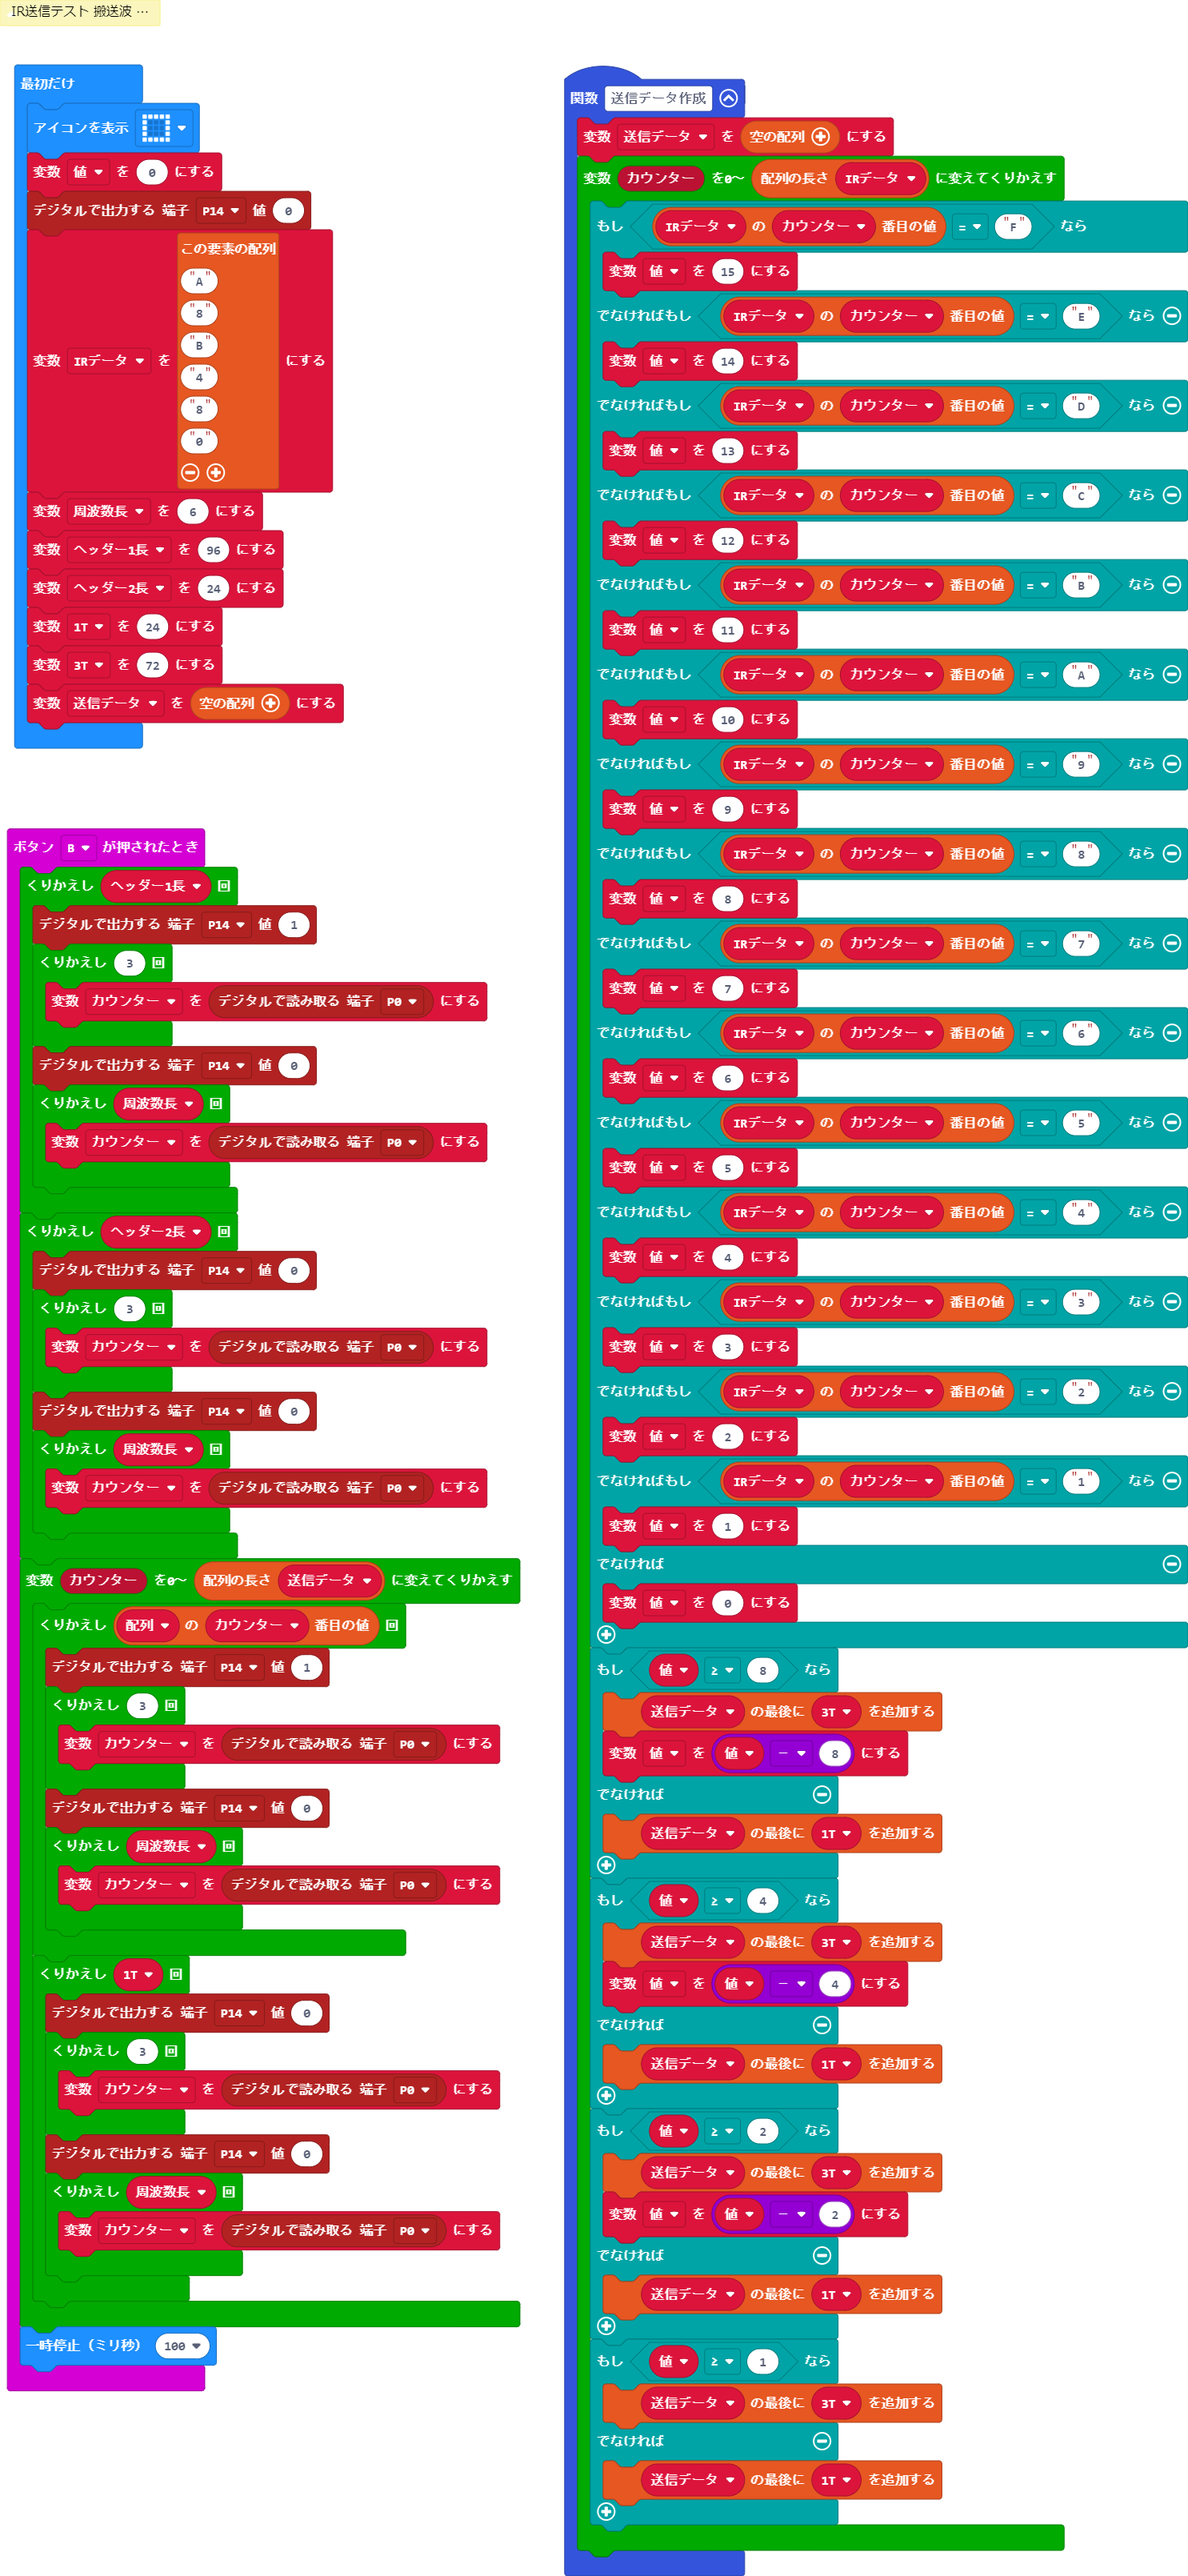
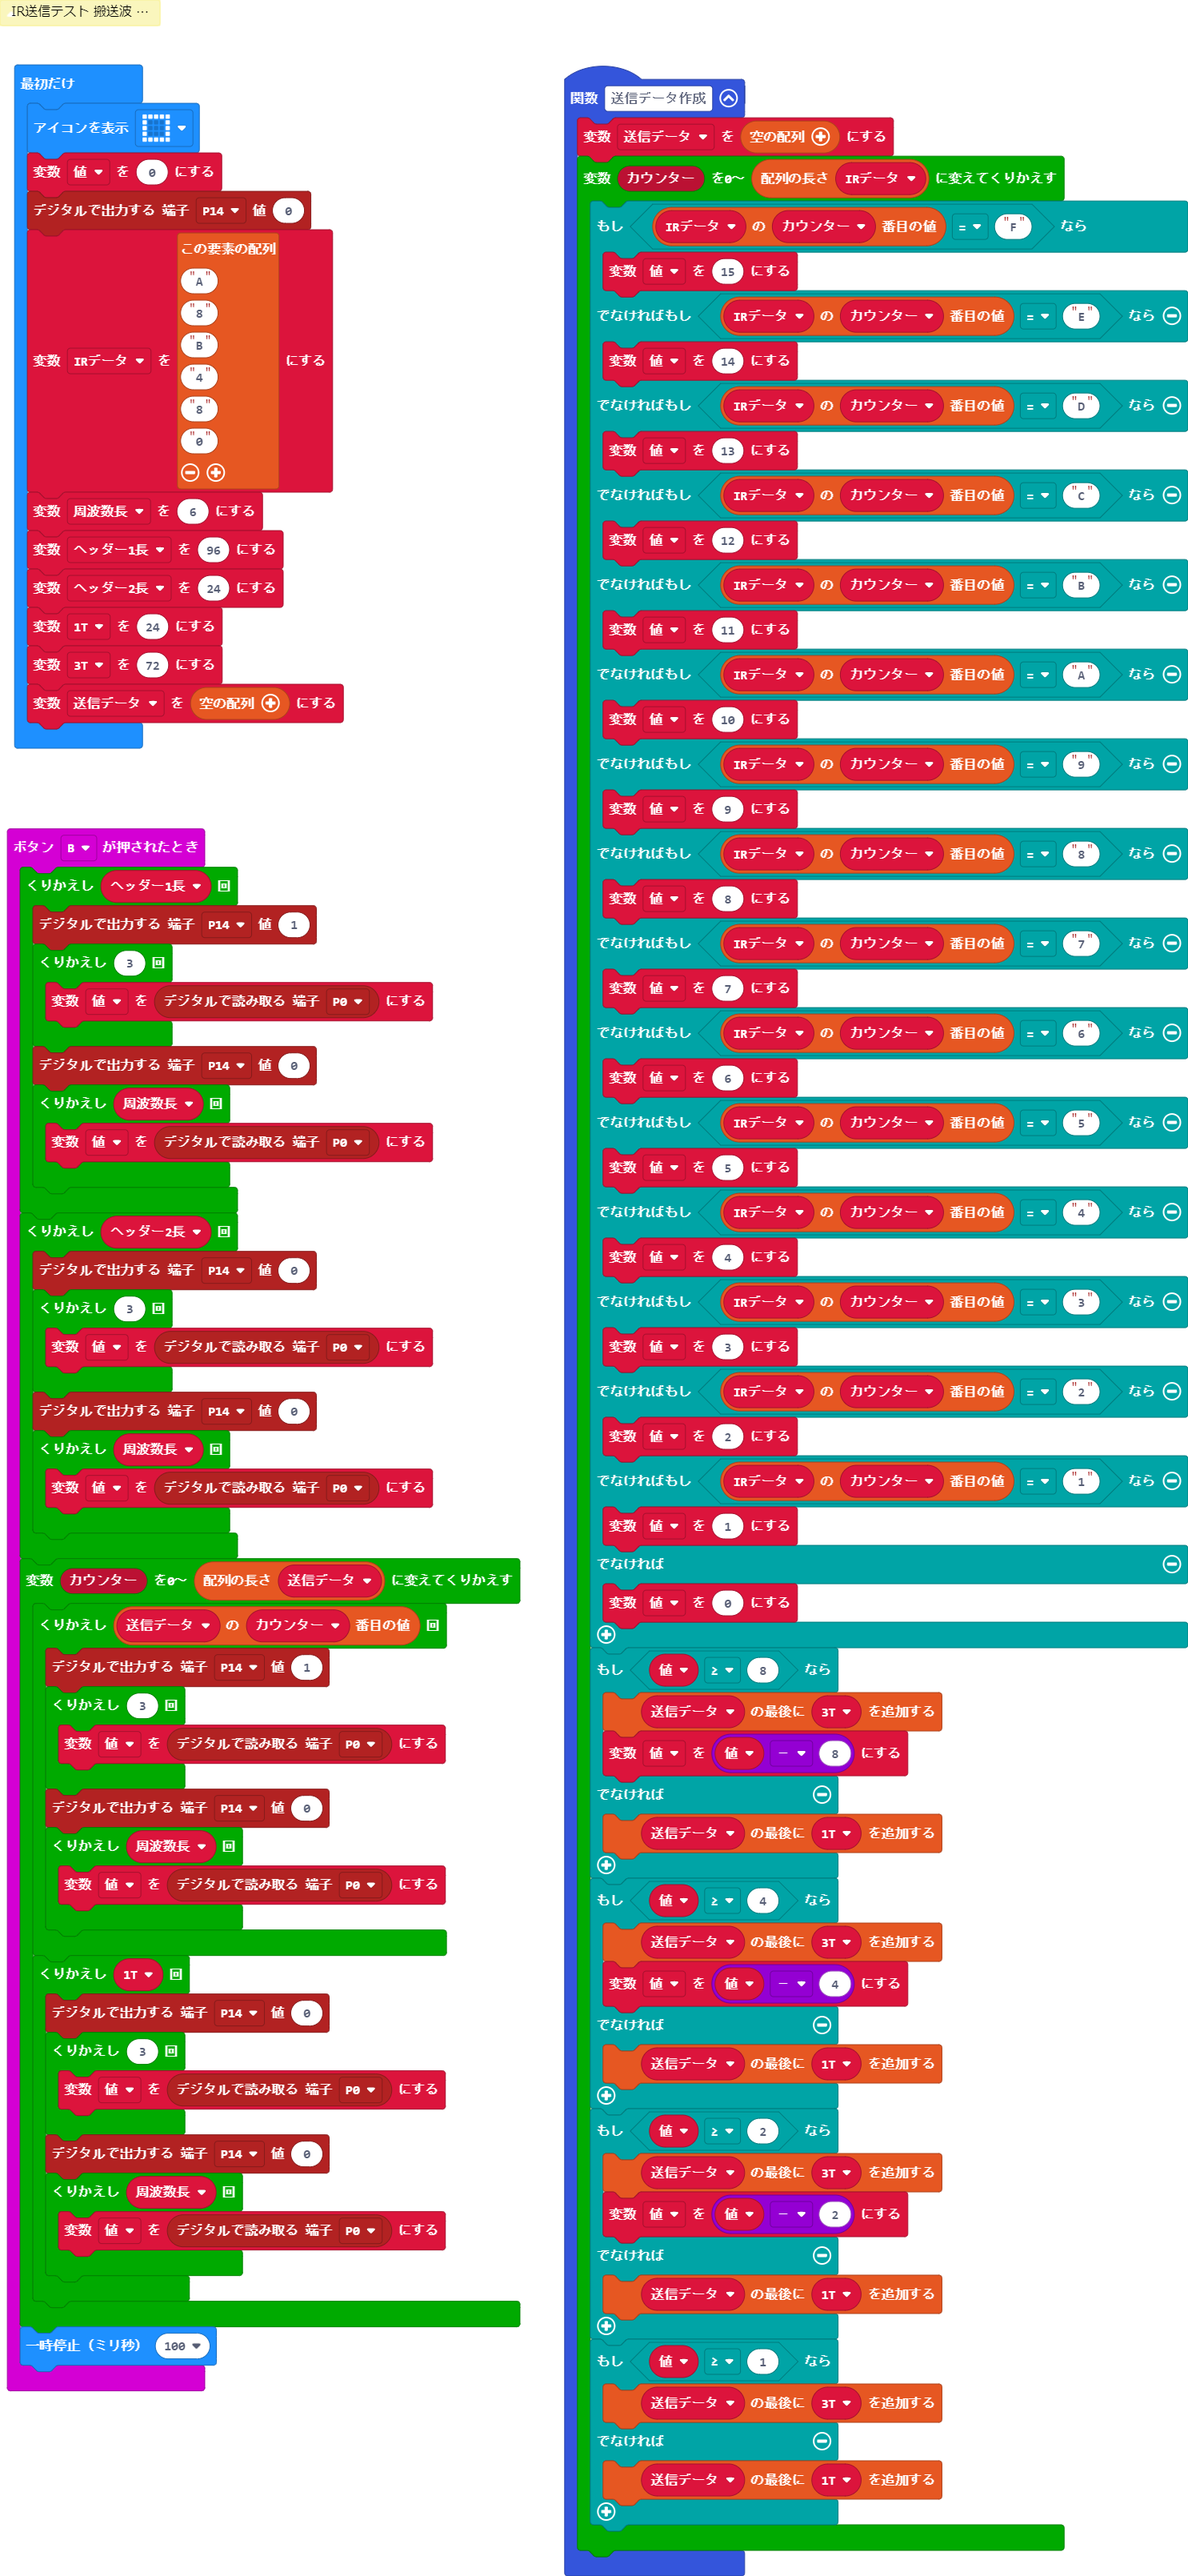
更新 main.blocks, main.ts

diff --git a/main.ts b/main.ts
@@ -2,43 +2,42 @@ input.onButtonPressed(Button.B, function () {
     for (let index = 0; index < ヘッダー1長; index++) {
         pins.digitalWritePin(DigitalPin.P14, 1)
         for (let index = 0; index < 3; index++) {
-            カウンター = pins.digitalReadPin(DigitalPin.P0)
+            値 = pins.digitalReadPin(DigitalPin.P0)
         }
         pins.digitalWritePin(DigitalPin.P14, 0)
         for (let index = 0; index < 周波数長; index++) {
-            カウンター = pins.digitalReadPin(DigitalPin.P0)
+            値 = pins.digitalReadPin(DigitalPin.P0)
         }
     }
     for (let index = 0; index < ヘッダー2長; index++) {
         pins.digitalWritePin(DigitalPin.P14, 0)
         for (let index = 0; index < 3; index++) {
-            カウンター = pins.digitalReadPin(DigitalPin.P0)
+            値 = pins.digitalReadPin(DigitalPin.P0)
         }
         pins.digitalWritePin(DigitalPin.P14, 0)
         for (let index = 0; index < 周波数長; index++) {
-            カウンター = pins.digitalReadPin(DigitalPin.P0)
+            値 = pins.digitalReadPin(DigitalPin.P0)
         }
     }
     for (let カウンター = 0; カウンター <= 送信データ.length; カウンター++) {
-        let 配列: number[] = []
-        for (let index = 0; index < 配列[カウンター]; index++) {
+        for (let index = 0; index < 送信データ[カウンター]; index++) {
             pins.digitalWritePin(DigitalPin.P14, 1)
             for (let index = 0; index < 3; index++) {
-                カウンター = pins.digitalReadPin(DigitalPin.P0)
+                値 = pins.digitalReadPin(DigitalPin.P0)
             }
             pins.digitalWritePin(DigitalPin.P14, 0)
             for (let index = 0; index < 周波数長; index++) {
-                カウンター = pins.digitalReadPin(DigitalPin.P0)
+                値 = pins.digitalReadPin(DigitalPin.P0)
             }
         }
         for (let index = 0; index < _1T; index++) {
             pins.digitalWritePin(DigitalPin.P14, 0)
             for (let index = 0; index < 3; index++) {
-                カウンター = pins.digitalReadPin(DigitalPin.P0)
+                値 = pins.digitalReadPin(DigitalPin.P0)
             }
             pins.digitalWritePin(DigitalPin.P14, 0)
             for (let index = 0; index < 周波数長; index++) {
-                カウンター = pins.digitalReadPin(DigitalPin.P0)
+                値 = pins.digitalReadPin(DigitalPin.P0)
             }
         }
     }
@@ -114,7 +113,6 @@ function 送信データ作成 () {
  * 
  * ループ回数12＝28us、36KHz
  */
-let カウンター: number = []
 let 送信データ: number[] = []
 let _3T: number = []
 let _1T: number = []
